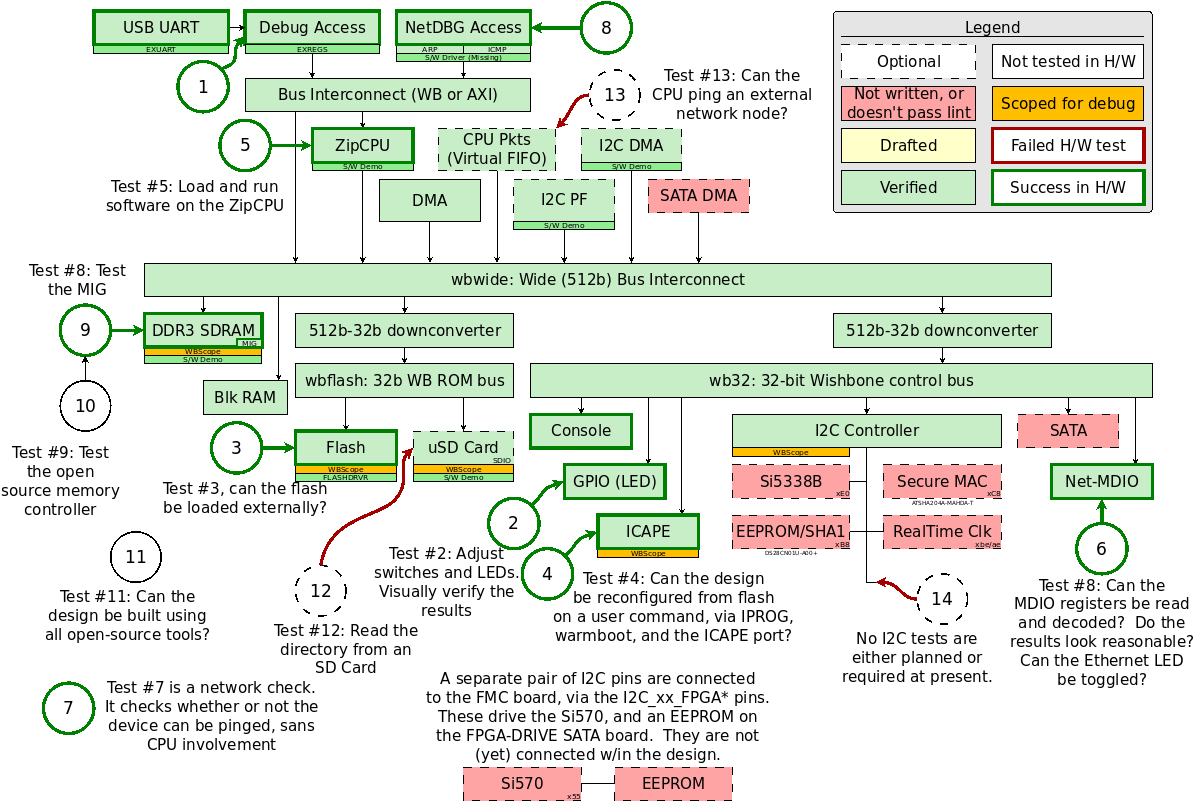
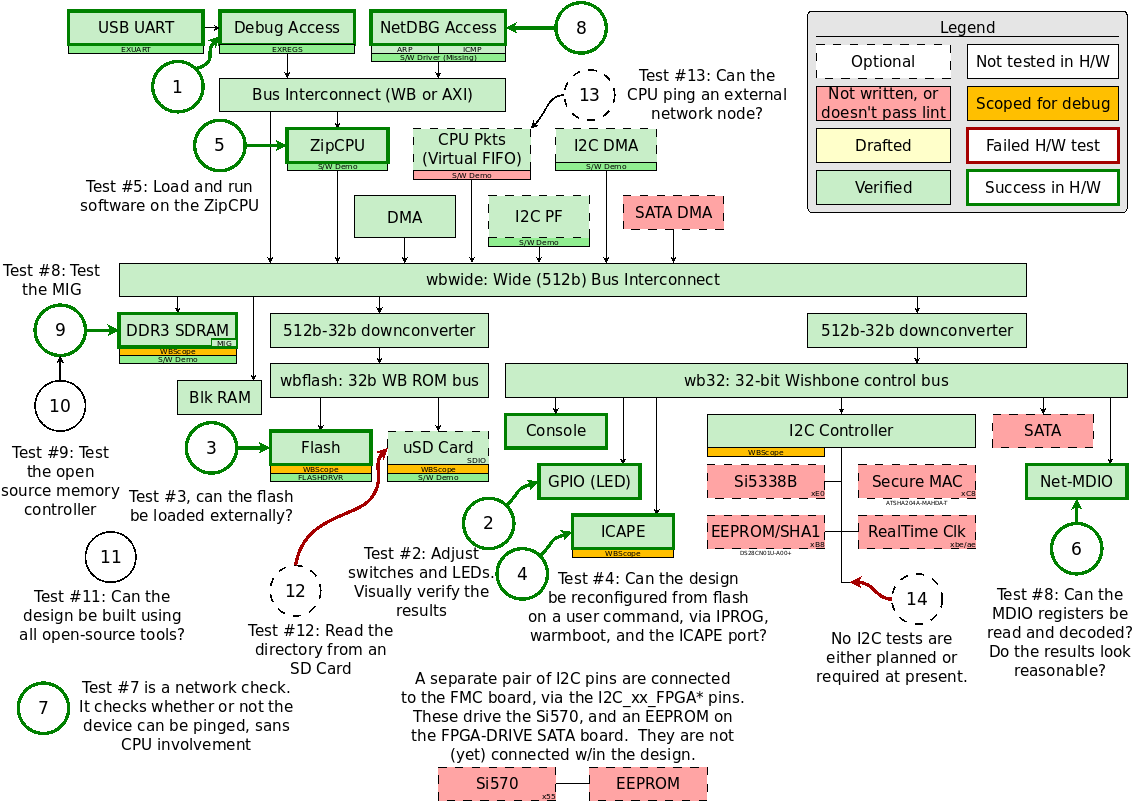
SDRAM bus check works w/ NET (Nexbus) interface

diff --git a/sw/host/nexbus.cpp b/sw/host/nexbus.cpp
@@ -70,7 +70,7 @@
 const	unsigned NEXBUS::MAXRDLEN = 256; // 1024;
 const	unsigned NEXBUS::MAXWRLEN = 256;
 const	unsigned NEXBUS::MAXTRIES = 10;
-const	unsigned NEXBUS::PKT_TIMEOUT = 750;
+const	unsigned NEXBUS::PKT_TIMEOUT = 3000;
 
 // Debug DBGPRINTF infrastructure
 // {{{
@@ -696,7 +696,7 @@ NEXBUS::BUSW	NEXBUS::readword(void) {
 		unsigned	sbyte, rdaddr;
 
 		sbyte = m_rdbuf[m_rxpos];
-		DBGPRINTF("Read-rest from %02x\n", sbyte & 0x0ff);
+		DBGPRINTF("Read-rest from %02x @%3d\n", sbyte & 0x0ff, m_rxpos);
 
 		if ((sbyte & 0x060) == 0x60) {
 			// Specials
@@ -962,7 +962,7 @@ void	NEXBUS::readidle(unsigned timeout_ms) {
 			unsigned	sbyte, rdaddr;
 
 			sbyte = m_rdbuf[m_rxpos];
-			DBGPRINTF("Read-rest from %02x\n", sbyte & 0x0ff);
+			DBGPRINTF("Read-rest #2 from %02x @%3d\n", sbyte & 0x0ff, m_rxpos);
 
 			if ((sbyte & 0x060) == 0x60) {
 			// Specials
@@ -989,7 +989,7 @@ void	NEXBUS::readidle(unsigned timeout_ms) {
 				if (sbyte & 0x01)
 					m_interrupt_flag = true;
 				break;
-			}
+			} m_rxpos++;
 
 			// Otherwise ignore any Idle's (for now)
 			continue;
@@ -1093,6 +1093,7 @@ void	NEXBUS::readidle(unsigned timeout_ms) {
 				// return val;
 			} else if ((sbyte & 0x060) == 0x40) {
 				// Write acknowledgment -- ignore it here
+				m_rxpos++;
 				if (m_rxaddr_set && (m_rxaddr & 1))
 					m_rxaddr += (1+(sbyte & 0x1f)) * 4;
 			} else if ((sbyte & 0x060) == 0x00) {
@@ -1202,7 +1203,7 @@ unsigned	NEXBUS::readpkt(unsigned timeout_ms) {
 	DBGPRINTF("READ-PKT\n");
 
 	if (m_rxlen >= 8) {
-		rxframe = ((m_rdbuf[0] && 0x0ff) << 8) | (m_rdbuf[1] & 0x0ff);
+		rxframe = ((m_rdbuf[0] & 0x0ff) << 8) | (m_rdbuf[1] & 0x0ff);
 		if ((rxframe == m_frameid)&&(m_frameid != 0)) {
 			DBGPRINTF("NOT DONE: Frame IDs %04x %04x match! RxLen = %d\n", rxframe, m_frameid, m_rxlen);
 			// We already have the packet we need.  Don't waste our

diff --git a/README.md b/README.md
@@ -143,7 +143,7 @@ additional peripherals may also be implemented as time and necessity allow.
    If and when the MIG DDR3 SDRAM test passes, we'll move on to testing
    the [open source DDR3 memory controller](https://github.com/AngeloJacobo/DDR3_Controller).
 
-   STATUS: Pending.
+   STATUS: Pending.  (Up next for testing ...)
 
 11. Open source place and route
 
@@ -153,7 +153,7 @@ additional peripherals may also be implemented as time and necessity allow.
 
     Requires both the CPU and memory
 
-    STATUS: Not yet tested.  (Waiting on memory.)
+    STATUS: Cleared for testing, tests not started.
 
 13. Network CPU Access _(Optional test)_
 
@@ -169,7 +169,7 @@ This project is a work in progress.
 
 The current project status is maintained pictorially [here, in the doc/
 directory](doc/kimos-busblocks.png).  The project has been assembled, and
-several of the key component tests already pass--as noted above and [in
+all of the key component tests pass--as noted above and [in
 the diagram](doc/kimos-busblocks.png).
 
 At present, the design is configured to use Xilinx's MIG controller.  It
